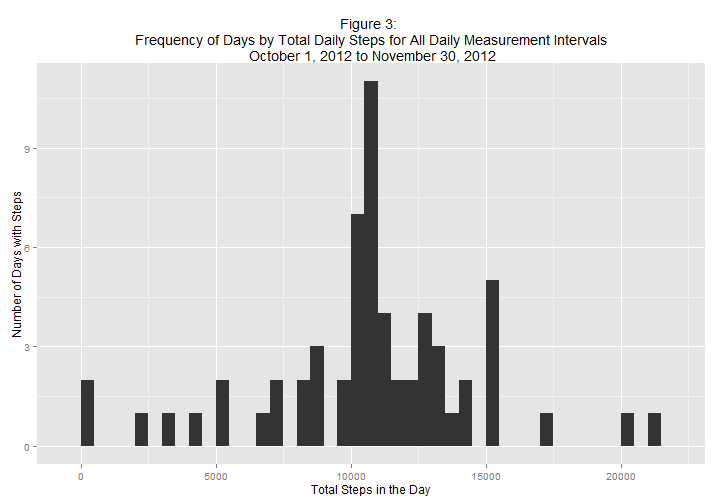
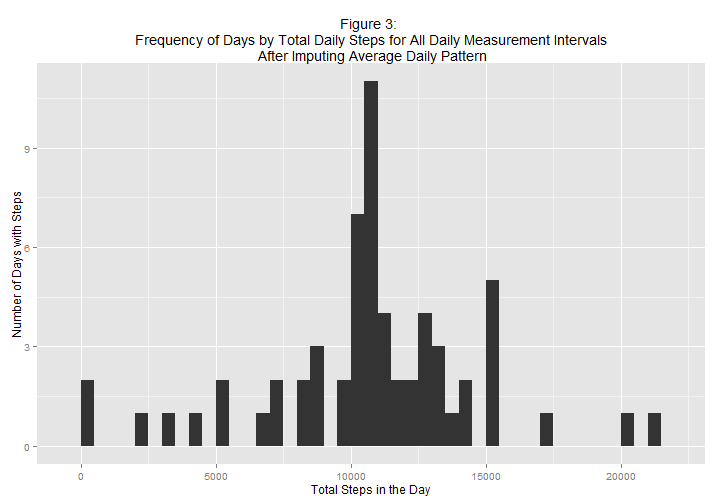
Revised

Changed region(s): [[0.3361, 0.0893, 0.7028, 0.1488]]

diff --git a/PA1_templateV1.html b/PA1_templateV1.html
@@ -319,11 +319,11 @@ mean(aa$x, na.rm=TRUE)
 
 <pre><code class="r">p2=ggplot(aa, aes(x=aa$x)) + geom_histogram(binwidth = 500) +
        xlab(&quot;Total Steps in the Day&quot;) + ylab(&quot;Number of Days with Steps&quot;) +
-       ggtitle(&quot;Figure 3: \nFrequency of Days by Total Daily Steps for All Daily Measurement Intervals\n October 1, 2012 to November 30, 2012&quot;)
+       ggtitle(&quot;Figure 3: \nFrequency of Days by Total Daily Steps for All Daily Measurement Intervals\n After Imputing Average Daily Pattern&quot;)
 p2
 </code></pre>
 
[2 lines of base64/hex data omitted]
 The mean is not changed as we replaced the missing days with days of average step intervals.  The median changed slightly as we added 8 mean values to the 53 days.  As can be seen in figure 3, the eight days were added to the median interval making it the most frequent with 11 days. </p>
 
 <h2>Are there differences in activity patterns between weekdays and weekends?</h2>

diff --git a/PA1_templateV1.md b/PA1_templateV1.md
@@ -163,7 +163,7 @@ median(aa$x, na.rm=TRUE)
 ```r
 p2=ggplot(aa, aes(x=aa$x)) + geom_histogram(binwidth = 500) +
        xlab("Total Steps in the Day") + ylab("Number of Days with Steps") +
-       ggtitle("Figure 3: \nFrequency of Days by Total Daily Steps for All Daily Measurement Intervals\n October 1, 2012 to November 30, 2012")
+       ggtitle("Figure 3: \nFrequency of Days by Total Daily Steps for All Daily Measurement Intervals\n After Imputing Average Daily Pattern")
 p2
 ```
 
